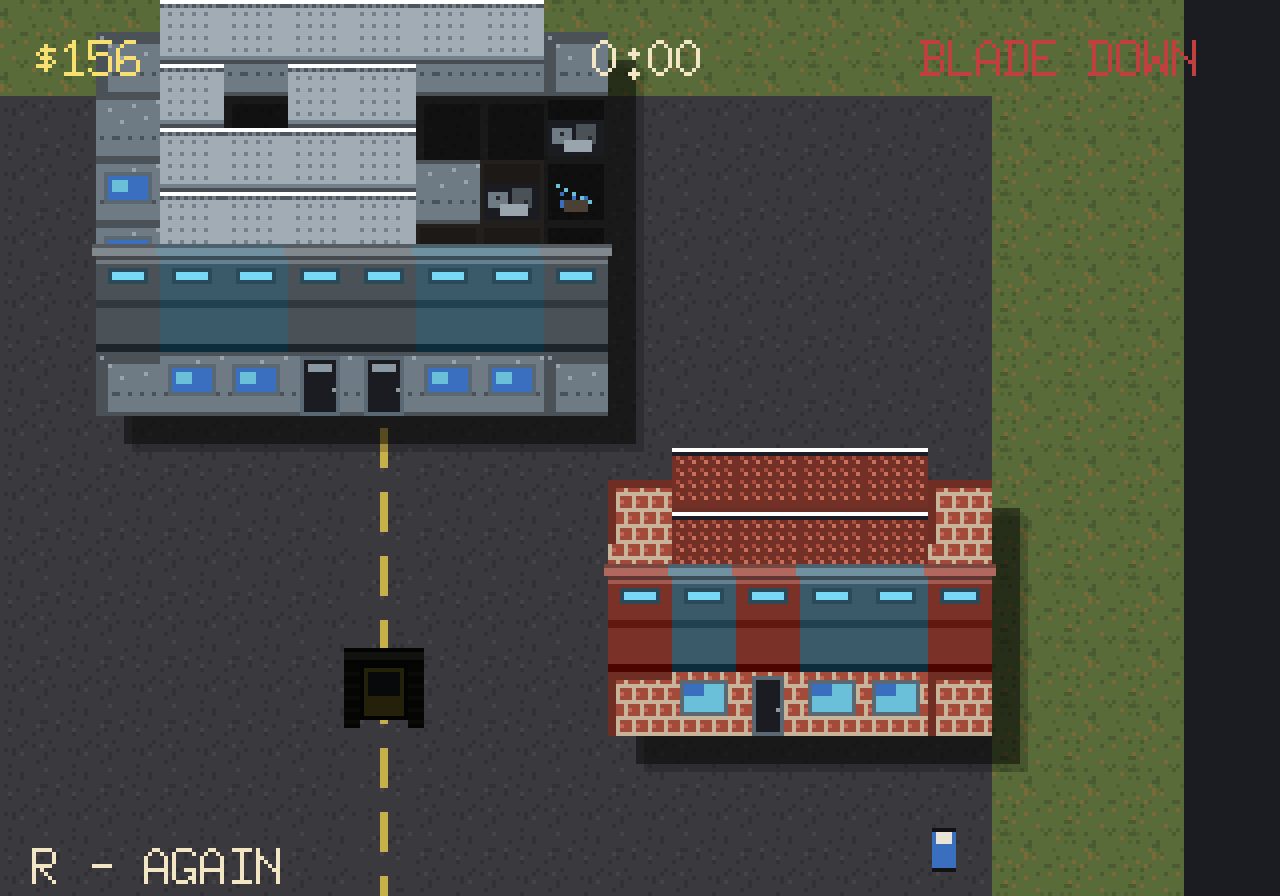
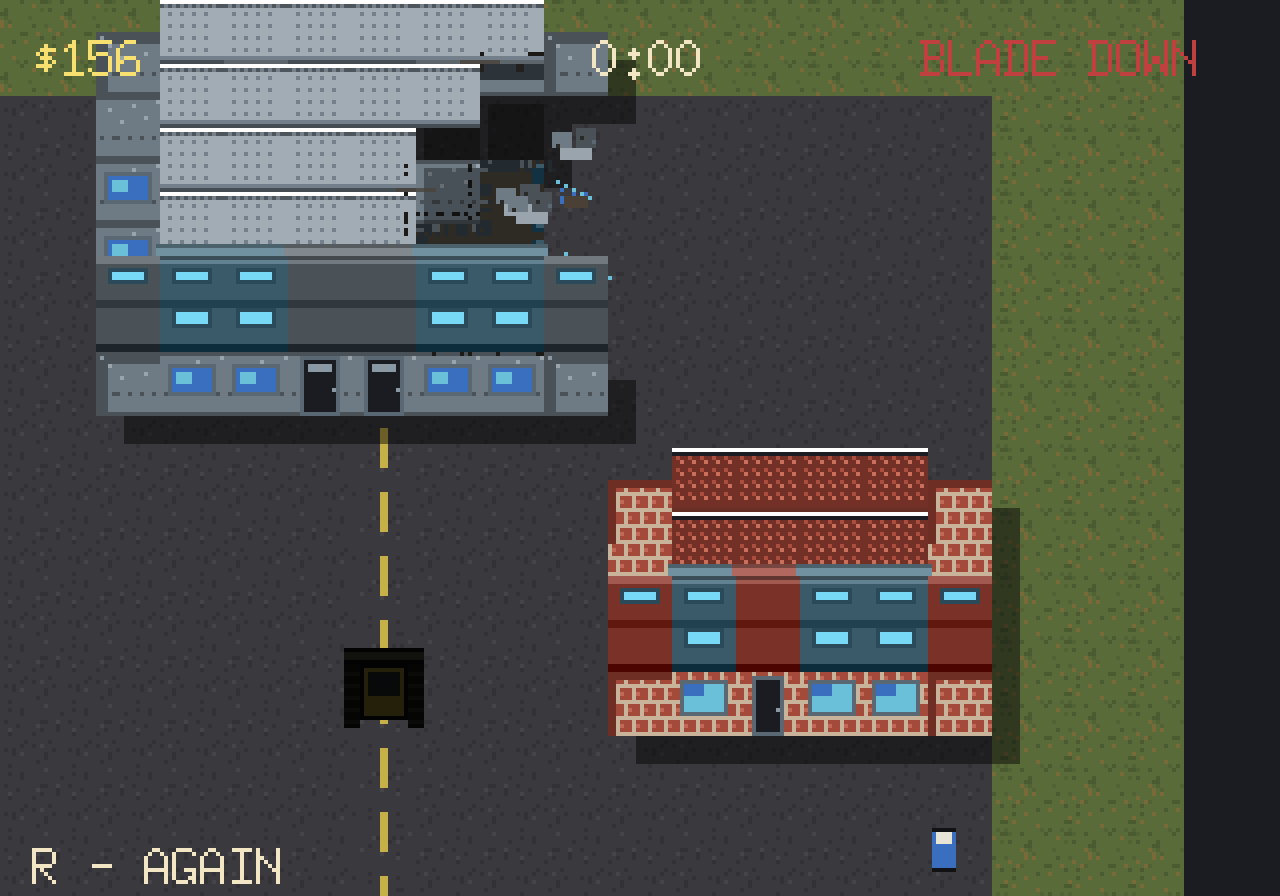
Merge façade openings and recapture demolition evidence.
Adjacent south-wall breaches now punch one irregular hole instead of a row of 16px gaps, cavity floors are a single slab, and sag is stronger. Review frames cover intact, localized breach, warning sag, falling, settled, and east contrast.

diff --git a/internal/render/draw_structure.go b/internal/render/draw_structure.go
@@ -238,18 +238,12 @@ func drawSouthFacade(dst *ebiten.Image, v View, s *lot.Structure, lx int, sx, sy
 		return
 	}
 	mat := c.Mat
-	if mat == 0 && c.WasMat != 0 {
-		mat = c.WasMat
-	}
 	if c.Kind == lot.KindNone && c.WasMat != 0 {
 		mat = c.WasMat
 	}
 	fc := matFacadeColor(mat)
 	standing := c.Present() && c.State != lot.Broken && c.State != lot.Rubble && c.Kind != lot.KindNone
-	open := s.Cavity(lx, s.H-1) || c.Kind == lot.KindWindow && c.State != lot.Intact
-	if c.Kind == lot.KindWindow && c.State == lot.Intact {
-		open = false
-	}
+	open := southFacadeOpen(s, lx)
 	if !standing && !columnHasStandingDeck(s, lx) && !open {
 		return
 	}
@@ -260,21 +254,22 @@ func drawSouthFacade(dst *ebiten.Image, v View, s *lot.Structure, lx int, sx, sy
 	if stories >= 2 {
 		mid := sy - fh/2
 		fillRect(dst, sx, mid-1, tileSize, 2, shadeRGBA(fc, -25))
-		if standing && c.Kind != lot.KindDoor {
+		if standing && !open && c.Kind != lot.KindDoor {
 			fillRect(dst, sx+3, sy-fh+3, tileSize-6, 4, color.RGBA{0x2A, 0x4A, 0x5A, 0xFF})
 			fillRect(dst, sx+4, sy-fh+4, tileSize-8, 2, color.RGBA{0x6A, 0xC0, 0xD8, 0xAA})
 		}
 	}
 
-	if standing && c.Kind == lot.KindWindow {
+	if standing && c.Kind == lot.KindWindow && !open {
 		fillRect(dst, sx+3, sy-fh+fh*0.55, tileSize-6, 5, color.RGBA{0x2A, 0x4A, 0x5A, 0xFF})
 		fillRect(dst, sx+4, sy-fh+fh*0.55+1, tileSize-8, 3, color.RGBA{0x6A, 0xC0, 0xD8, 0xAA})
 	}
 
-	if open || !standing {
-		drawFacadeHole(dst, sx, sy, fh, lx, s.H-1, mat)
+	if open {
+		mergeL := southFacadeOpen(s, lx-1)
+		mergeR := southFacadeOpen(s, lx+1)
+		drawFacadeHole(dst, sx, sy, fh, lx, s.H-1, mat, mergeL, mergeR)
 	} else if c.Wound() > 0.2 {
-		// Superficial / cracked façade scarring, not a vanished cell.
 		drawFacadeScars(dst, sx, sy, fh, lx, c)
 	}
 
@@ -287,6 +282,23 @@ func drawSouthFacade(dst *ebiten.Image, v View, s *lot.Structure, lx int, sx, sy
 			float32(sx+tileSize), float32(sy-fh),
 			1, color.RGBA{0, 0, 0, 0x66}, false)
 	}
+}
+
+func southFacadeOpen(s *lot.Structure, lx int) bool {
+	c := s.At(lx, s.H-1)
+	if c == nil {
+		return false
+	}
+	if c.Kind == lot.KindWindow && c.State == lot.Intact {
+		return false
+	}
+	if s.Cavity(lx, s.H-1) {
+		return true
+	}
+	if c.Kind == lot.KindNone || c.State == lot.Empty || c.State == lot.Rubble || c.State == lot.Broken {
+		return true
+	}
+	return false
 }
 
 func columnHasStandingDeck(s *lot.Structure, lx int) bool {
@@ -305,32 +317,42 @@ func columnHasStandingDeck(s *lot.Structure, lx int) bool {
 	return false
 }
 
-func drawFacadeHole(dst *ebiten.Image, sx, sy, fh float64, lx, ly int, mat lot.Material) {
+func drawFacadeHole(dst *ebiten.Image, sx, sy, fh float64, lx, ly int, mat lot.Material, mergeL, mergeR bool) {
 	dark := color.RGBA{0x18, 0x16, 0x14, 0xFF}
 	floor := color.RGBA{0x32, 0x2C, 0x24, 0xFF}
-	x0 := sx + 2
-	w := float64(tileSize - 4)
-	// Irregular jambs: nibble 1–3px per scanline.
-	for i := 0; i < int(fh)-3; i++ {
+	for i := 0; i < int(fh)-2; i++ {
 		h := lot.CellHash(lx, ly, i+70)
-		insetL := 1 + int(h%3)
-		insetR := 1 + int((h>>3)%3)
-		if i < 2 || i > int(fh)-6 {
+		insetL := 0
+		insetR := 0
+		if !mergeL {
+			insetL = 1 + int(h%3)
+		}
+		if !mergeR {
+			insetR = 1 + int((h>>3)%3)
+		}
+		if !mergeL && (i < 2 || i > int(fh)-6) {
 			insetL++
+		}
+		if !mergeR && (i < 2 || i > int(fh)-6) {
 			insetR++
 		}
-		y := sy - fh + 3 + float64(i)
-		fillRect(dst, x0+float64(insetL-1), y, w-float64(insetL+insetR-2), 1, dark)
-		if i > int(fh)-10 {
-			fillRect(dst, x0+float64(insetL), y, w-float64(insetL+insetR), 1, floor)
+		y := sy - fh + 2 + float64(i)
+		w := float64(tileSize - insetL - insetR)
+		if w < 2 {
+			continue
+		}
+		fillRect(dst, sx+float64(insetL), y, w, 1, dark)
+		if i > int(fh)-11 {
+			fillRect(dst, sx+float64(insetL), y, w, 1, floor)
 		}
 	}
-	// Exposed lintel remnant.
-	lintel := matFacadeColor(mat)
-	fillRect(dst, sx+1, sy-fh+2, tileSize-2, 2, shadeRGBA(lintel, -20))
-	for i := 0; i < tileSize-2; i++ {
-		if lot.CellHash(lx, ly, i+90)%4 == 0 {
-			fillRect(dst, sx+1+float64(i), sy-fh+1, 1, 2, color.RGBA{0x2A, 0x28, 0x24, 0xFF})
+	if !mergeL || !mergeR {
+		lintel := matFacadeColor(mat)
+		fillRect(dst, sx+1, sy-fh+2, tileSize-2, 2, shadeRGBA(lintel, -20))
+		for i := 0; i < tileSize-2; i++ {
+			if lot.CellHash(lx, ly, i+90)%4 == 0 {
+				fillRect(dst, sx+1+float64(i), sy-fh+1, 1, 2, color.RGBA{0x2A, 0x28, 0x24, 0xFF})
+			}
 		}
 	}
 }

diff --git a/internal/render/draw_openings.go b/internal/render/draw_openings.go
@@ -85,18 +85,25 @@ func drawCavityRegion(dst *ebiten.Image, v View, s *lot.Structure, comp []int) {
 	if len(comp) == 0 {
 		return
 	}
-	// Unified slab: fill each cell, then nibble outer edges so adjacent holes merge
-	// into one irregular opening instead of a grid of pits.
+	in := map[[2]int]bool{}
+	for _, i := range comp {
+		lx, ly := s.Index(i)
+		in[[2]int{lx, ly}] = true
+		wx, wy := s.WorldXY(lx, ly)
+		sx, sy := world(v, wx, wy)
+		// One floor color across the whole opening — no per-cell inset pit.
+		fillRect(dst, sx, sy, tileSize, tileSize, colCavityFloor)
+	}
 	for _, i := range comp {
 		lx, ly := s.Index(i)
 		wx, wy := s.WorldXY(lx, ly)
 		sx, sy := world(v, wx, wy)
-		fillRect(dst, sx, sy, tileSize, tileSize, colCavity)
-		fillRect(dst, sx+1, sy+1, tileSize-2, tileSize-2, colCavityFloor)
-		// Soft dust mottling, not a second 16×16 pit.
-		h := lot.CellHash(lx, ly, 4)
-		fillRect(dst, sx+2+float64(h%5), sy+3+float64((h>>3)%4), 4, 3, colCavityDust)
 		drawCavityEdge(dst, s, lx, ly, sx, sy)
+		// Sparse dust specks, hashed so they do not repeat every 16px.
+		h := lot.CellHash(lx+s.TX, ly+s.TY, 4)
+		if h%2 == 0 {
+			fillRect(dst, sx+float64(2+(h%11)), sy+float64(3+((h>>3)%9)), 2, 1, colCavityDust)
+		}
 	}
 }
 

diff --git a/cmd/capture-elevated/main.go b/cmd/capture-elevated/main.go
@@ -99,7 +99,7 @@ func (h *capturer) Update() error {
 		}
 		s.ImpactDirX, s.ImpactDirY = 0, -1
 		h.phase = 4
-		h.wait = 12 // sag / warning
+		h.wait = 16 // sag / warning
 	case 4:
 		h.phase = 5
 		h.wait = 22 // falling begins ~tick 20+
@@ -123,7 +123,7 @@ func (h *capturer) Update() error {
 			h.l.CollapseTick()
 		}
 		h.phase = 8
-		h.wait = 1
+		h.wait = 2
 	case 8:
 		h.done = true
 		return ebiten.Termination

diff --git a/internal/lot/cell.go b/internal/lot/cell.go
@@ -18,7 +18,7 @@ const (
 	SupportReach       = 2   // retained for debug overlays
 	CollapseScoreMin   = 1.5 // need ≥2 alive anchors
 	SagScoreMin        = 2.5 // 2 anchors → sag; 3 → intact
-	SagMaxPx           = 7.0
+	SagMaxPx           = 11.0
 	FallSpeedPerTick   = 1.05
 	CollapseHopDelay   = 8
 	CollapseHopPerDist = 3

diff --git a/internal/render/draw.go b/internal/render/draw.go
@@ -210,7 +210,7 @@ func collectSorted(v View, a *atlas) []drawItem {
 					if isDeck && lift > 0 {
 						shade = 1.05
 						if cell.Sag > 0 {
-							shade = 0.92
+							shade = 0.82
 						}
 						if cell.Falling {
 							shade = 0.88

diff --git a/docs/ELEVATED_COLLAPSE_PROGRESS.md b/docs/ELEVATED_COLLAPSE_PROGRESS.md
@@ -32,7 +32,16 @@ Visibly elevated buildings with ground-level supports, staged location-dependent
 - Unit: `go test ./...`
 - Capture: `PERMITDENIED_SILENT=1 xvfb-run -a go run ./cmd/capture-elevated --out DIR`
 - Harness: `control-permitdenied drive` scripts `elevated-D-collapse`, `sandbox-destruction`
-- Frames: `docs/elevated_evidence/` (intact, localized breach, sag, falling, settled, east contrast)
+- Frames: `docs/elevated_evidence/` — intact, localized SW breach, **sag/warning**, falling, collapsing, settled, east contrast, plus sandbox gameplay stills.
+
+## Captured south-face collapse (structural path)
+
+1. Blade/script removes the hall’s entire south row (y=5): SW/SE corners, glass, and the two steel doors.
+2. Glass never carried load. Losing the doors and corners drops every southern deck cell’s 8-neighborhood support count to zero, so distant northern anchors are clamped and cannot levitate that bay.
+3. Collapse timers start near the breach (south-center first) with sag + vibration + dust as warning.
+4. Adjacent sagging cells join one `FallGroup` and drop as a contiguous southern section onto unified floor + irregular spill.
+5. Interior columns at local (2,2) and (5,2) still root the northern deck, so the far roof remains after the dust clears — a partial, location-dependent silhouette, not a canned full-building wipe.
+
 
 ## Remaining limitations
 
